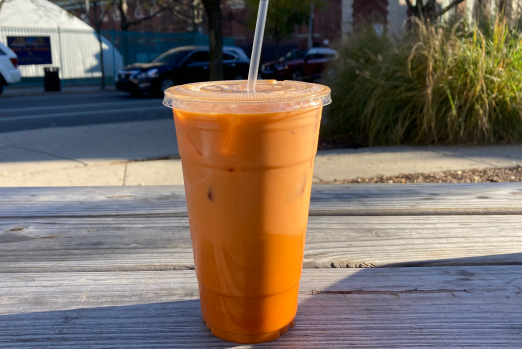
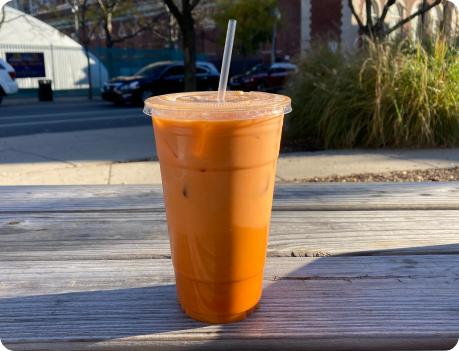
Added new images

diff --git a/final/menu_1cart.html b/final/menu_1cart.html
@@ -72,7 +72,7 @@
                     </div>
                     <div class="menuitem">
                         <a href="edit_item.html" class="imgprice">
-                            <img src="images/thai_tea.png" alt="cheesesteak">
+                            <img src="images/thai_tea_3x.png" alt="cheesesteak">
                             <span class="heart"><i style="width: 40px;" class="fa fa-heart-o fa-lg" aria-hidden="true"></i></span>
                             <span class="pricetag">$2.50</span>
                             </a>
@@ -201,7 +201,7 @@
                 <div class="scrollmenu">
                     <div class="menuitem">
                         <a href="edit_item.html" class="imgprice">
-                            <img src="images/thai_tea.png" alt="cheesesteak">
+                            <img src="images/thai_tea_3x.png" alt="cheesesteak">
                             <span class="heart"><i style="width: 40px;" class="fa fa-heart-o fa-lg" aria-hidden="true"></i></span>
                             <span class="pricetag">$2.50</span>
                             </a>
@@ -209,7 +209,7 @@
                     </div>
                     <div class="menuitem">
                         <a href="edit_item.html" class="imgprice">
-                            <img src="images/hot_coffee.png" alt="cheesesteak">
+                            <img src="images/hot_coffee_3x.png" alt="cheesesteak">
                             <span class="heart"><i style="width: 40px;" class="fa fa-heart-o fa-lg" aria-hidden="true"></i></span>
                             <span class="pricetag">$1.00</span>
                             </a>
@@ -217,7 +217,7 @@
                     </div>
                     <div class="menuitem">
                         <a href="edit_item.html" class="imgprice">
-                            <img src="images/tea.png" alt="cheesesteak">
+                            <img src="images/tea_3x.png" alt="cheesesteak">
                             <span class="heart"><i style="width: 40px;" class="fa fa-heart-o fa-lg" aria-hidden="true"></i></span>
                             <span class="pricetag">$1.00</span>
                             </a>
@@ -225,7 +225,7 @@
                     </div>
                     <div class="menuitem">
                         <a href="edit_item.html" class="imgprice">
-                            <img src="images/hot_chocolate.png" alt="cheesesteak">
+                            <img src="images/hot_chocolate_3x.png" alt="cheesesteak">
                             <span class="heart"><i style="width: 40px;" class="fa fa-heart-o fa-lg" aria-hidden="true"></i></span>
                             <span class="pricetag">$1.00</span>
                             </a>

diff --git a/final/menu.html b/final/menu.html
@@ -113,7 +113,7 @@
                 </div>
                 <div class="menuitem">
                     <a href="edit_item.html" class="imgprice">
-                        <img src="images/thai_tea.png" alt="cheesesteak">
+                        <img src="images/thai_tea_3x.png" alt="cheesesteak">
                         <span class="heart"><i style="width: 40px;" class="fa fa-heart-o fa-lg" aria-hidden="true"></i></span>
                         <span class="pricetag">$2.50</span>
                         </a>
@@ -242,7 +242,7 @@
             <div class="scrollmenu">
                 <div class="menuitem">
                     <a href="edit_item.html" class="imgprice">
-                        <img src="images/thai_tea.png" alt="cheesesteak">
+                        <img src="images/thai_tea_3x.png" alt="cheesesteak">
                         <span class="heart"><i style="width: 40px;" class="fa fa-heart-o fa-lg" aria-hidden="true"></i></span>
                         <span class="pricetag">$2.50</span>
                         </a>
@@ -250,7 +250,7 @@
                 </div>
                 <div class="menuitem">
                     <a href="edit_item.html" class="imgprice">
-                        <img src="images/hot_coffee.png" alt="cheesesteak">
+                        <img src="images/hot_coffee_3x.png" alt="cheesesteak">
                         <span class="heart"><i style="width: 40px;" class="fa fa-heart-o fa-lg" aria-hidden="true"></i></span>
                         <span class="pricetag">$1.00</span>
                         </a>
@@ -258,7 +258,7 @@
                 </div>
                 <div class="menuitem">
                     <a href="edit_item.html" class="imgprice">
-                        <img src="images/tea.png" alt="cheesesteak">
+                        <img src="images/tea_3x.png" alt="cheesesteak">
                         <span class="heart"><i style="width: 40px;" class="fa fa-heart-o fa-lg" aria-hidden="true"></i></span>
                         <span class="pricetag">$1.00</span>
                         </a>
@@ -266,7 +266,7 @@
                 </div>
                 <div class="menuitem">
                     <a href="edit_item.html" class="imgprice">
-                        <img src="images/hot_chocolate.png" alt="cheesesteak">
+                        <img src="images/hot_chocolate_3x.png" alt="cheesesteak">
                         <span class="heart"><i style="width: 40px;" class="fa fa-heart-o fa-lg" aria-hidden="true"></i></span>
                         <span class="pricetag">$1.00</span>
                         </a>

diff --git a/final/script/menu_listing.js b/final/script/menu_listing.js
@@ -19,10 +19,10 @@ let foods = [
     ['images/cart_hashbrown_2x.png', '1.50', 'Hashbrown', 2],
     ['images/cart_thai_tea_2x.png', '2.50', 'Thai Tea', 2],
     ['images/cart_muffin_2x.png', '1.75', 'Muffin', 2],
-    ['images/thai_tea.png', '2.50', 'Thai Tea', 3],
-    ['images/hot_coffee.png', '2.50', 'Hot Coffee', 3],
-    ['images/tea.png', '2.50', 'Tea', 3],
-    ['images/hot_chocolate.png', '2.50', 'Hot Chocolate', 3]
+    ['images/thai_tea_3x.png', '2.50', 'Thai Tea', 3],
+    ['images/hot_coffee_3x.png', '2.50', 'Hot Coffee', 3],
+    ['images/tea_3x.png', '2.50', 'Tea', 3],
+    ['images/hot_chocolate_3x.png', '2.50', 'Hot Chocolate', 3]
 ];
 
 

diff --git a/final/my_lunchbox.html b/final/my_lunchbox.html
@@ -53,7 +53,7 @@
             </div>
             <div class="menuitem">
                 <a href="edit_item.html">
-                    <img src="images/thai_tea.png" alt="cheesesteak">
+                    <img src="images/thai_tea_3x.png" alt="cheesesteak">
                     </a>
                     <h3>Thai Tea</h3>   
             </div>

diff --git a/final/index.css b/final/index.css
@@ -1802,7 +1802,7 @@ h1.thanks {
     top: -25px;
     left: 44px;
     margin: 0;
-    padding: .2rem .6rem;
+    padding: 0.5rem 0.5rem;
     background-color: #F8FAFF;
     border-radius: 5px 5px 5px 5px;
     text-decoration: none;
